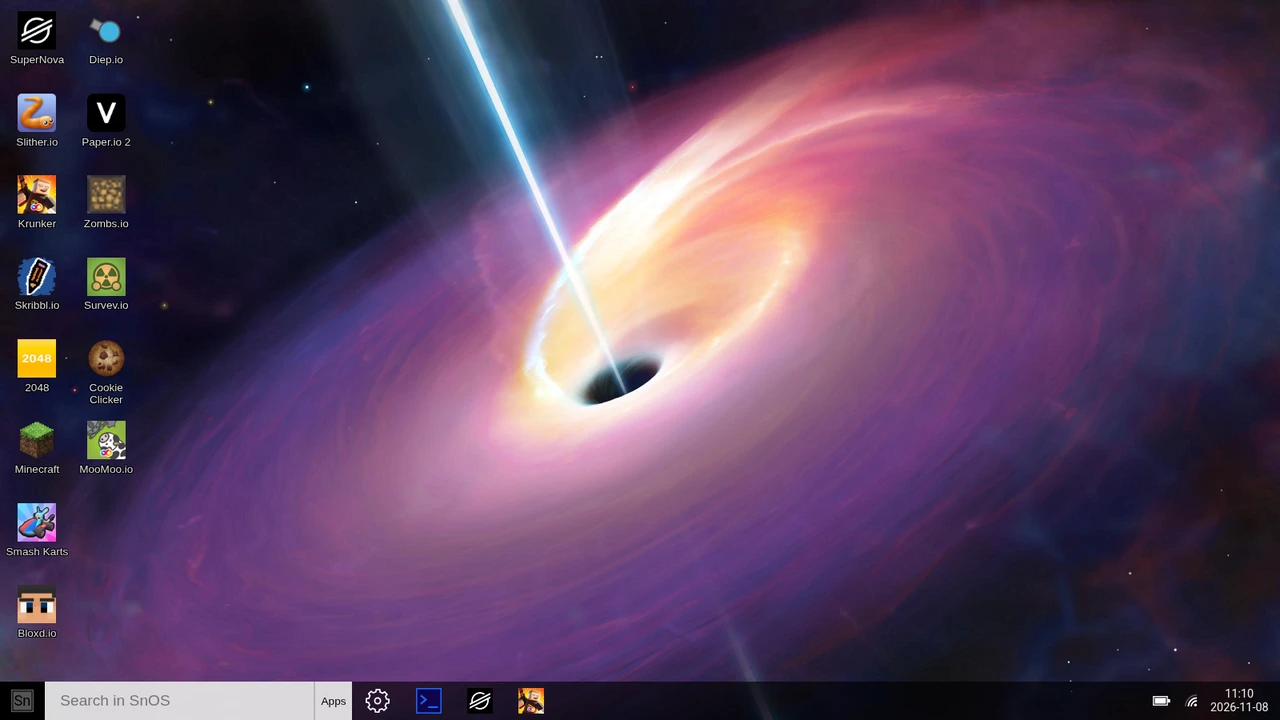
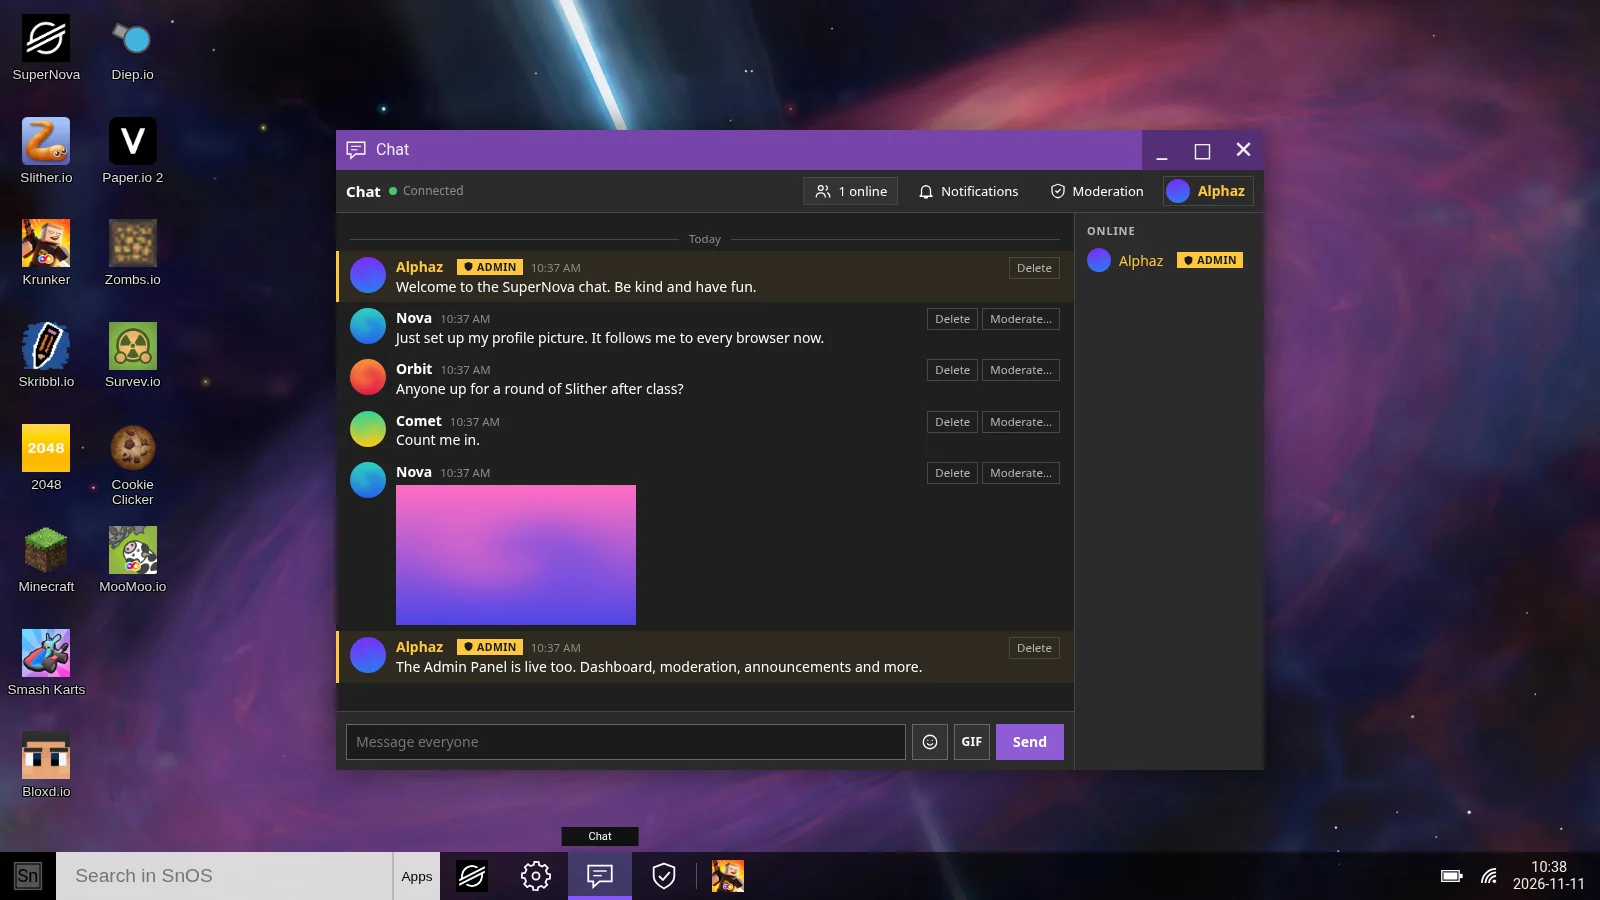
docs(readme): new screenshots and every feature we have added
Eight fresh screenshots (taken from a demo server with sample accounts): the desktop with the Chat
open, the lock screen, the sign-in screen, the chat, the Admin Panel dashboard, notifications over
Settings > Notifications, the start menu with the account menu, and the Settings home. The browser
screenshot is unchanged. The feature list is regrouped (Browsing, The desktop, Accounts and community,
For admins, Privacy and safety) and now covers the lock screen, the taskbar and start menu, accounts,
profile pictures, the chat and its moderation, notifications and the Admin Panel. Usage and the
configuration table are updated (GIPHY_API_KEY, DATA_DIR). No emojis.

diff --git a/README.md b/README.md
@@ -12,25 +12,68 @@
 
 ![SuperNova OS desktop](docs/img/desktop.webp)
 
-SuperNova OS is a web proxy that runs inside a Windows 10 style desktop. It has a tabbed browser, games on the desktop, tab cloaking and a server side content filter, all from one Node.js app.
+SuperNova OS is a web proxy that runs inside a Windows 10 style desktop. It has a tabbed browser, games on the desktop, tab cloaking and a server side content filter. On top of that it has accounts, a live chat, desktop notifications and a full Admin Panel, all from one Node.js app.
 
 ## Features
+
+### Browsing
 
 - Two proxy engines, [Scramjet](https://github.com/MercuryWorkshop/scramjet) and [Ultraviolet](https://github.com/titaniumnetwork-dev/Ultraviolet). Switch between them in Settings or from the address bar, no restart needed.
 - Two transports, libcurl (default) and Epoxy, both over one [Wisp](https://github.com/MercuryWorkshop/wisp-protocol) WebSocket. You can point it at your own Wisp server.
 - Chrome style browser with draggable tabs, pinning, duplicate and reopen, fullscreen per tab, zoom, a bookmarks bar, address suggestions, real URLs in the address bar and an animated new tab page.
-- 13 games on the desktop that run through the proxy: Bloxd.io, Slither.io, Diep.io, Krunker, Paper.io 2, Skribbl.io, Zombs.io, 2048, Survev.io, Minecraft, Cookie Clicker, Smash Karts and MooMoo.io.
-- Tab cloaking with 13 disguises, an about:blank / blob: launcher, a panic key that works inside windows and proxied pages, and an optional leave page prompt.
-- Content filter that runs on the server, so it covers every connection and not just the search box.
-- Windows 10 style Settings app with a tile home page, setting search, toggles and the Fluent Reveal hover effect.
-- 21 wallpapers (space and gaming). Click "Show more" in Settings > Appearance to see all of them.
 - Search with Brave, DuckDuckGo, Google, Bing, Startpage, Ecosia or a custom URL, with optional safe search.
-- Draggable and resizable windows, a launcher, a terminal and a file explorer.
-- Blocks connections to the server's own network (SSRF protection), optional password through one env variable, and no credentials in the repo.
+- 13 games on the desktop that run through the proxy: Bloxd.io, Slither.io, Diep.io, Krunker, Paper.io 2, Skribbl.io, Zombs.io, 2048, Survev.io, Minecraft, Cookie Clicker, Smash Karts and MooMoo.io. You can also add your own apps to the desktop.
+
+### The desktop
+
+- A Windows 10 style desktop with draggable and resizable windows, a launcher, a terminal and a file explorer.
+- A taskbar that starts with SuperNova, Settings, Chat and (for admins) the Admin Panel, a thin divider, then the apps you pin. Right click any of them to pin or unpin, and the choice follows your account.
+- A start menu with your profile at the top. Click it for a Windows 10 style menu with Change account settings, Lock and Sign out.
+- A Windows 10 lock screen for signing in: a different wallpaper each visit, a big clock, a frosted sign-in screen and a Welcome screen with Windows' spinning dots. It has Sleep, Restart and Reduce motion controls, and it runs at 60 fps.
+- A Settings app in the Windows 10 style, with a tile home page, setting search, toggles and the Fluent Reveal hover effect.
+- Notifications: small Windows 10 style pop-ups that stack and fade, with a Settings page for theme, size, corner, sound, how long they stay and Do not disturb.
+- 21 wallpapers (space and gaming). Click "Show more" in Settings > Appearance to see all of them.
+
+### Accounts and community
+
+- Accounts (optional or required) that carry your apps, wallpaper, bookmarks, pinned apps and preferences to any browser. There is no email: a recovery code shown once at sign-up resets a forgotten password.
+- Invite codes, so you decide who can join, and profile pictures that follow you everywhere.
+- A live chat room for everyone signed in, with emoji, GIFs (upload one, or search GIPHY when the server has a key), who is online, spam filters, slow mode and automatic timeouts. Admins get a gold name and an ADMIN badge.
+- Optional chat notifications that show the sender's picture and message, off until you turn them on.
+- Back up and restore your settings as a file.
+
+### For admins
+
+- An Admin Panel in the same style as Settings, with a dashboard, an account manager (search, sort, bulk actions, per account sessions, chat history, set a password, ban, delete), sessions, invite codes, chat moderation, a content filter you can edit live, announcements, maintenance mode, an audit log, server health and a database backup.
+- Chat moderation from the Chat window: delete messages, time out or ban people, lock or clear the chat, and tune the blocked words, links and slow mode.
+- The first admin is created from a setup link the server prints on its first start.
+
+### Privacy and safety
+
+- Tab cloaking with 13 disguises, an about:blank / blob: launcher, a panic key that works inside windows and proxied pages, and an optional leave page prompt.
+- A content filter that runs on the server, so it covers every connection and not just the search box.
+- Blocks connections to the server's own network (SSRF protection), an optional site password through one env variable, and no credentials in the repo.
+
+## Screenshots
+
+<p>
+  <img src="docs/img/lock.webp" width="49%" alt="The lock screen">
+  <img src="docs/img/signin.webp" width="49%" alt="The sign-in screen">
+</p>
+
+<p>
+  <img src="docs/img/chat.webp" width="49%" alt="The live chat">
+  <img src="docs/img/admin.webp" width="49%" alt="The Admin Panel dashboard">
+</p>
+
+<p>
+  <img src="docs/img/notifications.webp" width="49%" alt="Notifications and the Notifications settings">
+  <img src="docs/img/startmenu.webp" width="49%" alt="The start menu with the account menu">
+</p>
 
 <p>
   <img src="docs/img/browser.webp" width="49%" alt="SuperNova Browser">
-  <img src="docs/img/settings.webp" width="49%" alt="Settings app">
+  <img src="docs/img/settings.webp" width="49%" alt="The Settings app">
 </p>
 
 ## Getting started
@@ -46,7 +89,7 @@ npm start
 
 Then open http://localhost:3000.
 
-To manage the site (accounts, sign-up, invite codes, bans), use the setup link the server prints on its first start: it creates the first admin, who gets Settings > Admin.
+To manage the site, use the setup link the server prints on its first start (open it, enter the code, choose a username and password). It creates the first admin, who gets the Admin Panel and Settings > Admin. Accounts, the chat and the Admin Panel keep their data in one SQLite file under `DATA_DIR`.
 
 Other scripts:
 
@@ -58,15 +101,16 @@ Other scripts:
 - Browse: open SuperNova on the desktop, or switch the taskbar search to Web and type a URL or search.
 - Games: double click the icon on the desktop.
 - Your own apps: right click the desktop > Add an app…, or open the browser menu > Add to desktop. Right click an app you added to rename or remove it.
+- Pin and unpin: right click a taskbar icon. SuperNova, Settings, Chat and the Admin Panel stay grouped first, left of the divider.
 - Switch engine: Settings > Proxy > Engine, or click the engine badge in the browser's address bar.
 - Change transport: Settings > Proxy > Connection. You can also set a custom Wisp server there.
 - Test the connection: Settings > Proxy > Troubleshooting > Run test.
 - Cloaking: Settings > Cloaking for the tab disguise, panic key (e.g. `Ctrl+Alt+P`) and open in about:blank.
 - Wallpaper and colors: Settings > Appearance, or right click the desktop.
-- Accounts (when the site has them on): Settings > Account to create one or sign in. Your apps, wallpaper, bookmarks and preferences follow you to any browser you sign in on.
-- Chat (needs accounts): the Chat icon on the taskbar opens a live room for everyone signed in, with emoji and GIFs. Admins moderate from the same window. Set your profile picture in Settings > Account.
-- Admin Panel (admins): Admin in the start menu. Dashboard, accounts, sessions, invites, chat moderation, content filter, announcements, maintenance mode, audit log, and server tools such as a database backup.
-- Notifications: Settings > Notifications. Windows 10 style pop-ups, which you can restyle and silence. Chat notifications are off until you turn them on in the Chat's settings or there.
+- Accounts (when the site has them on): Settings > Account to create one or sign in, and to set your profile picture. When the site requires accounts you sign in on the lock screen instead. Click your profile in the start menu to sign out or lock.
+- Chat (needs accounts): the Chat icon on the taskbar opens a live room for everyone signed in, with emoji and GIFs.
+- Notifications: Settings > Notifications. You can restyle them, silence them, or turn on Do not disturb. Chat notifications are off until you turn them on, in Settings or in the Chat's own settings.
+- Admin Panel (admins): the Admin icon on the taskbar, or Admin in the start menu, or search for "admin". Chat moderation is also available inside the Chat window.
 - Back up or move your setup: Settings > System > Backup exports your apps, bookmarks and preferences to a file and imports it again, on any SuperNova site.
 
 <details>
@@ -115,8 +159,9 @@ Everything is optional. Copy `.env.example` to `.env` or set these on your host.
 | `BLOCKED_HOSTS` | empty | Extra domains to block, comma separated |
 | `WISP_URL` | empty | Use an external Wisp server (`wss://...`) |
 | `OPEN_BROWSER` | empty | Set to `1` to open your browser on start |
-| `DATA_DIR` | `data` | Where accounts and the admin panel's choices are stored. Put it on a persistent disk |
+| `DATA_DIR` | `data` | Where accounts, the chat and the admin panel's choices are stored. Put it on a persistent disk |
 | `ACCOUNTS` / `ACCOUNTS_SIGNUP` / `ADMINS` | empty | Optional overrides for what Settings > Admin manages. Leave them unset to choose in the panel |
+| `GIPHY_API_KEY` | empty | Turns on GIF search in the chat. Without it people can still upload GIFs |
 | `TRUST_PROXY` | empty | Set to `1` behind a hosting platform's proxy (Fly.io, Render, nginx) |
 
 Full reference: [docs/CONFIGURATION.md](docs/CONFIGURATION.md)
